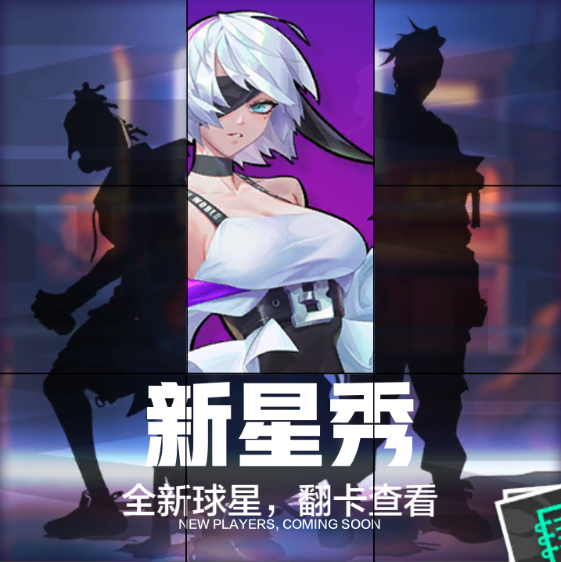
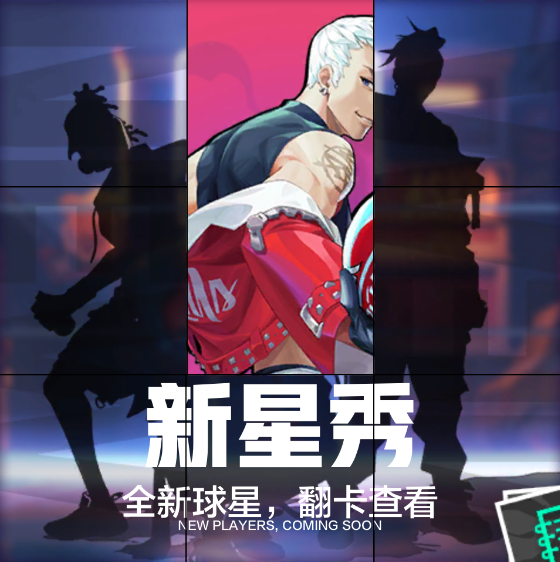
update new character preview and weekly vid

diff --git a/src/pages/WeeklyVideoPage.js b/src/pages/WeeklyVideoPage.js
@@ -7,7 +7,7 @@ function WeeklyVideoPage() {
 
 
   useEffect(() => {
-    window.location.href = "https://www.youtube.com/watch?v=c9x6L5G8oGE";
+    window.location.href = "https://www.youtube.com/watch?v=q3GXTt5gEh0";
   }, []);
 
   return (
